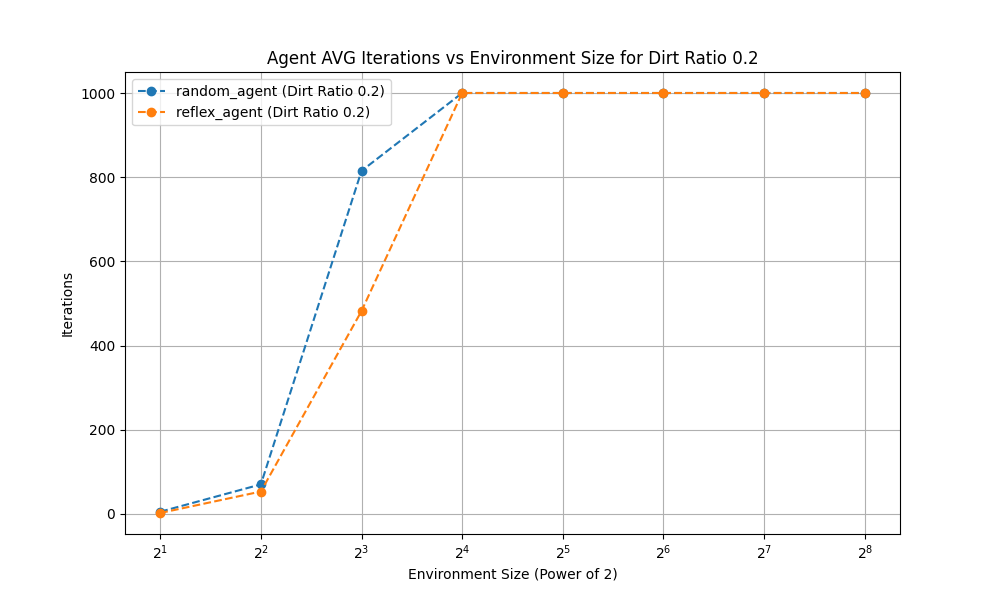
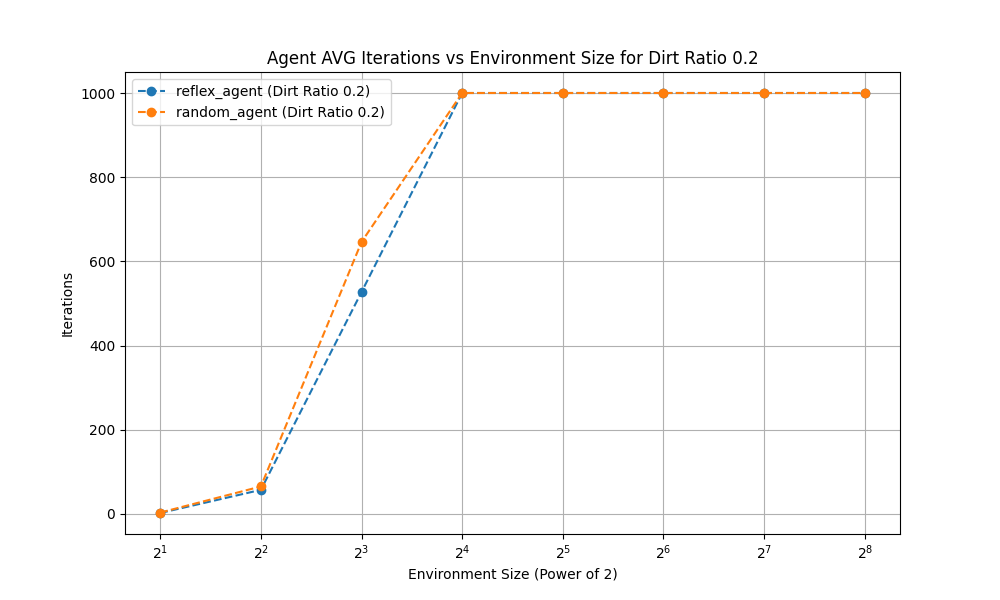
Gráficos con iteraciones + Reporte

diff --git a/tp2-agentes-racionales/code/simulation.py b/tp2-agentes-racionales/code/simulation.py
@@ -53,8 +53,12 @@ def run_simulation(
     env.randomize(env_seed)
 
     agent.env = env
+
     # Overrides env seed with random seed
     random.seed(None)
+
+    agent.row = random.randrange(0, env.nrows)
+    agent.col = random.randrange(0, env.ncols)
 
     t0 = time.time()
 

diff --git a/tp2-agentes-racionales/tp2-reporte.md b/tp2-agentes-racionales/tp2-reporte.md
@@ -1,57 +1,64 @@
-# Resultados
-En esta sección se presentan los datos obtenidos tras realizar múltiples simulaciones con diferentes parámetros.
-Los datos se obtuvieron tras ejecutar cada combinación de tamaño y porcentaje de suciedad, 10 simulaciones con cada agente.
+# Introducción
+El objetivo de este proyecto es implementar un simulador que determine la medida de rendimiento de distintos agentes en el famoso entorno de la aspiradora. A continuación vamos a medir y comparar el desempeño de un agente reflexivo simple y de un agente aleatorio.
 
-Ilustraciones generadas con <b>matplotlib</b>
+# Marco teórico y problema
+Los agentes utilizan PEAS (Performance, Environment, Actions and Sensors), lo que significa que existe una métrica para medir el rendimiento, un entorno y los agentes pueden tomar acciones en función de los datos que muestren los sensores.
+
+
+El entorno es una grilla de NxN celdas. Cada celda puede estar **limpia** o **sucia**. La tarea de la aspiradora es limpiar la suciedad presente en estas celdas.
+
+- **Medida de desempeño**: La métrica usada para medir el desempeño es la cantidad de celdas limpiadas.
+- **Entorno**: Grilla de celdas, limpias o sucias, parcialmente observable.
+- **Acciones**: El agente puede moverse en las 4 direcciones, en caso de que no se salga del entorno. Además puede limpiar la celda en la que se encuentra, o no hacer nada.
+- **Sensores**: El agente cuenta con un único sensor, que le permite saber si la celda sobre la que está posicionado está sucia.
+
+# Diseño experimental
+En este experimento se compararon los dos agentes sobre entornos de dimensión NxN, siendo N un número natural dentro del conjunto [2, 4, 8, 16, 32, 64, 128, 256]. Además para cada tamaño seleccionado se evaluó el rendimiento de los agentes sobre el entorno con diferentes porcentajes de suciedad, [0.1, 0.2, 0.4, 0.8].
+
+Por cada combinación <b>(<i>tamaño</i>, <i>porcentaje_suciedad</i>)</b>, se evaluaron 10 simulaciones, con el objetivo de obtener una métrica promedio de cada agente por cada combinación, siendo esta métrica, más descriptiva que si solo se evaluara una sola vez.
+
+Los entornos sobre los cuales se evaluaron los rendimientos para los distintos agentes, son completamente aleatorios, pero fueron los mismos para cada combinación de <b>(<i>tamaño</i>, <i>porcentaje_suciedad</i>)</b>. De esta forma ponemos a prueba a agentes distintos en igualdad de condiciones. Además, la posición inicial de los agentes es aleatoria.
+
+
+# Análisis y discución de los resultados
+Para obtener los siguientes resultados, la cantidad de iteraciones máxima por cada simulación fue limitada a 1000.
+Ilustraciones generadas con <b>matplotlib</b>, y son automáticamente guardadas tras ejecutar el script ```measure_performances.py```
+
 ## Tabla con todos los resultados
- Es decir que los resultados mostrados en <b>Random agent</b> y <b>Simple reflex agent</b> son el promedio de tales simulaciones.
+A continuación se puede ver una tabla que resume todos los resultados obtenidos. Se observa por fila, el tamaño del entorno, el porcentaje de suciedad, y para cada agente la medida de rendimiento, en conjunto con la cantidad de iteraciones realizadas.
 
 ![](images/results_table.png)
 
+Nótese que a partir de los entornos de tamaño 16x16, la cantidad de iteraciones siempre es 1000. Esto se debe a que las iteraciones estan limitadas a este número, y en promedio los agentes no van a poder limpiar el entorno en 1000 iteraciones o menos.
+
 ## Gráficos
+Debido al crecimiento exponencial del tamaño del entornos, he decidido, para simplificar la visualización y poder entender la diferencia entre los resulados con mayor claridad, utilizar una escala logarítmica.
+
+### Performance
 En los siguientes gráficos, se ha fijado el porcentaje de suciedad y se relaciona el tamaño del entorno en el eje horizontal, con el rendimiento del agente en el eje vertical.
+Se puede observar que las gráficas, que son discretas, presentan una concavidad positiva en los entornos de tamaño [2, 8] y una concavidad negativa en [16, 256], siendo el punto de inflexión el tamaño 16. Esto está diréctamente relacionado con el límite de las iteraciones, y es por esto que si aumentamos el tamaño del entorno indefinidamente, nos encontramos con una "cota superor" del rendimiento promedio.
+![](images/graphs/performance/performance_results_dirt_ratio(0.1).png)
+![](images/graphs/performance/performance_results_dirt_ratio(0.2).png)
+![](images/graphs/performance/performance_results_dirt_ratio(0.4).png)
+![](images/graphs/performance/performance_results_dirt_ratio(0.8).png)
 
-Nótese que el tamaño del entorno crece exponencialmente. Para simplificar la visualización y poder entender la diferencia entre los resulados con mayor claridad, se ha utilizado una escala logarítmica.
-![](images/graphs/results_dirt_ratio(0.1).png)
-![](images/graphs/results_dirt_ratio(0.2).png)
-![](images/graphs/results_dirt_ratio(0.4).png)
-![](images/graphs/results_dirt_ratio(0.8).png)
+### Iteraciones
+En el siguiente gráfico he fijado el porcentaje de suciedad en 0.4. Se puede ver relacionado el tamaño del entorno y la cantidad de iteraciones promedio requeridas para poder limpiar completamente el entorno.
+![](images/graphs/iterations/iterations_results_dirt_ratio(0.4).png)
 
-## Box and Whiskers
-Para cada combinación de los parámetros de tamaño del entorno y porcentaje de suciedad, se realizaron 10 simulaciones con cada agente. A continuación se muestran los resultados con el gráfico de caja y exensiones, comparando a los agentes para cada configuración.
-### Tamaño 8
-![](images/box_and_whiskers/box_size(8)_dr(0.1).png)
-![](images/box_and_whiskers/box_size(8)_dr(0.2).png)
-![](images/box_and_whiskers/box_size(8)_dr(0.4).png)
-![](images/box_and_whiskers/box_size(8)_dr(0.8).png)
-
-### Tamaño 16
-![](images/box_and_whiskers/box_size(16)_dr(0.1).png)
-![](images/box_and_whiskers/box_size(16)_dr(0.2).png)
-![](images/box_and_whiskers/box_size(16)_dr(0.4).png)
-![](images/box_and_whiskers/box_size(16)_dr(0.8).png)
-
-### Tamaño 32
-![](images/box_and_whiskers/box_size(32)_dr(0.1).png)
-![](images/box_and_whiskers/box_size(32)_dr(0.2).png)
-![](images/box_and_whiskers/box_size(32)_dr(0.4).png)
-![](images/box_and_whiskers/box_size(32)_dr(0.8).png)
-
-### Tamaño 64
-![](images/box_and_whiskers/box_size(64)_dr(0.1).png)
-![](images/box_and_whiskers/box_size(64)_dr(0.2).png)
-![](images/box_and_whiskers/box_size(64)_dr(0.4).png)
-![](images/box_and_whiskers/box_size(64)_dr(0.8).png)
+Se puede observar que la cantidad de iteraciones promedio llega a las 1000 a partir de el tamaño 2⁴, debido a la limitación de iteraciones impuesta.
 
 
-### Tamaño 128
-![](images/box_and_whiskers/box_size(128)_dr(0.1).png)
-![](images/box_and_whiskers/box_size(128)_dr(0.2).png)
-![](images/box_and_whiskers/box_size(128)_dr(0.4).png)
-![](images/box_and_whiskers/box_size(128)_dr(0.8).png)
+## Caja y extensiones
+Para cada combinación de los parámetros de tamaño del entorno y porcentaje de suciedad, se realizaron 10 simulaciones con cada agente. A continuación se muestra la distribución del rendimiento obtenido en cada iteración mediante un gráfico de caja y extensiones.
 
-### Tamaño 256
-![](images/box_and_whiskers/box_size(256)_dr(0.1).png)
-![](images/box_and_whiskers/box_size(256)_dr(0.2).png)
-![](images/box_and_whiskers/box_size(256)_dr(0.4).png)
-![](images/box_and_whiskers/box_size(256)_dr(0.8).png)
+![](images/box_and_whiskers/box_size(16).png)
+![](images/box_and_whiskers/box_size(256).png)
+
+He seleccionado dimensiones mayores a 8 porque en esos casos, los agentes siempre limpian todo el entorno, lo cuál significa que no hay dispersión de los datos, y el gráfico de caja y extensiones se ve colapsado en un solo valor.
+
+Además, es evidente que la dispersión de los datos es mayor a medida que aumenta el porcentaje de suciedad, lo cuál se debe a que cada vez hay más casillas sucias, haciendo que el rango de posibles casillas limpiadas sea cada vez más grande.
+
+## Conclusión
+
+En función de los resultados obtenidos, es evidente que el agente reflexivo simple es mejor en términos de rendimiento e iteraciones que el agente aleatorio. Esto se debe a que el agente aleatorio simplemente selecciona acciones de forma puramente aleatoria, sin preguntarse si la casilla sobre la que está posicionado está sucia o no, mientras que el reflexivo simple si lo hace.
